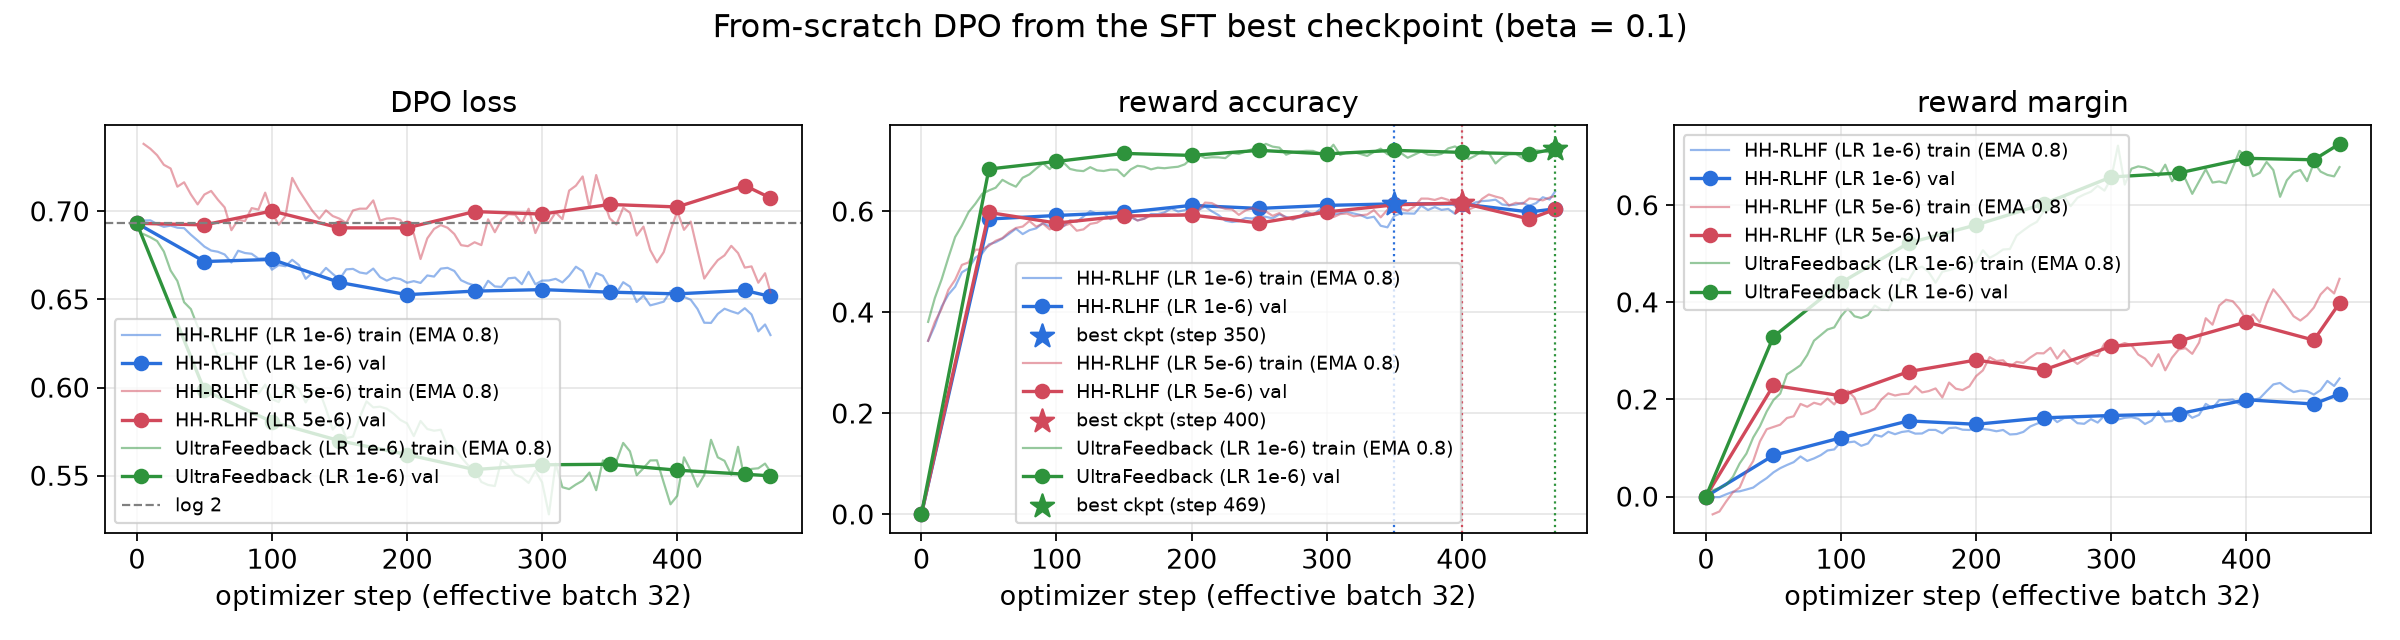
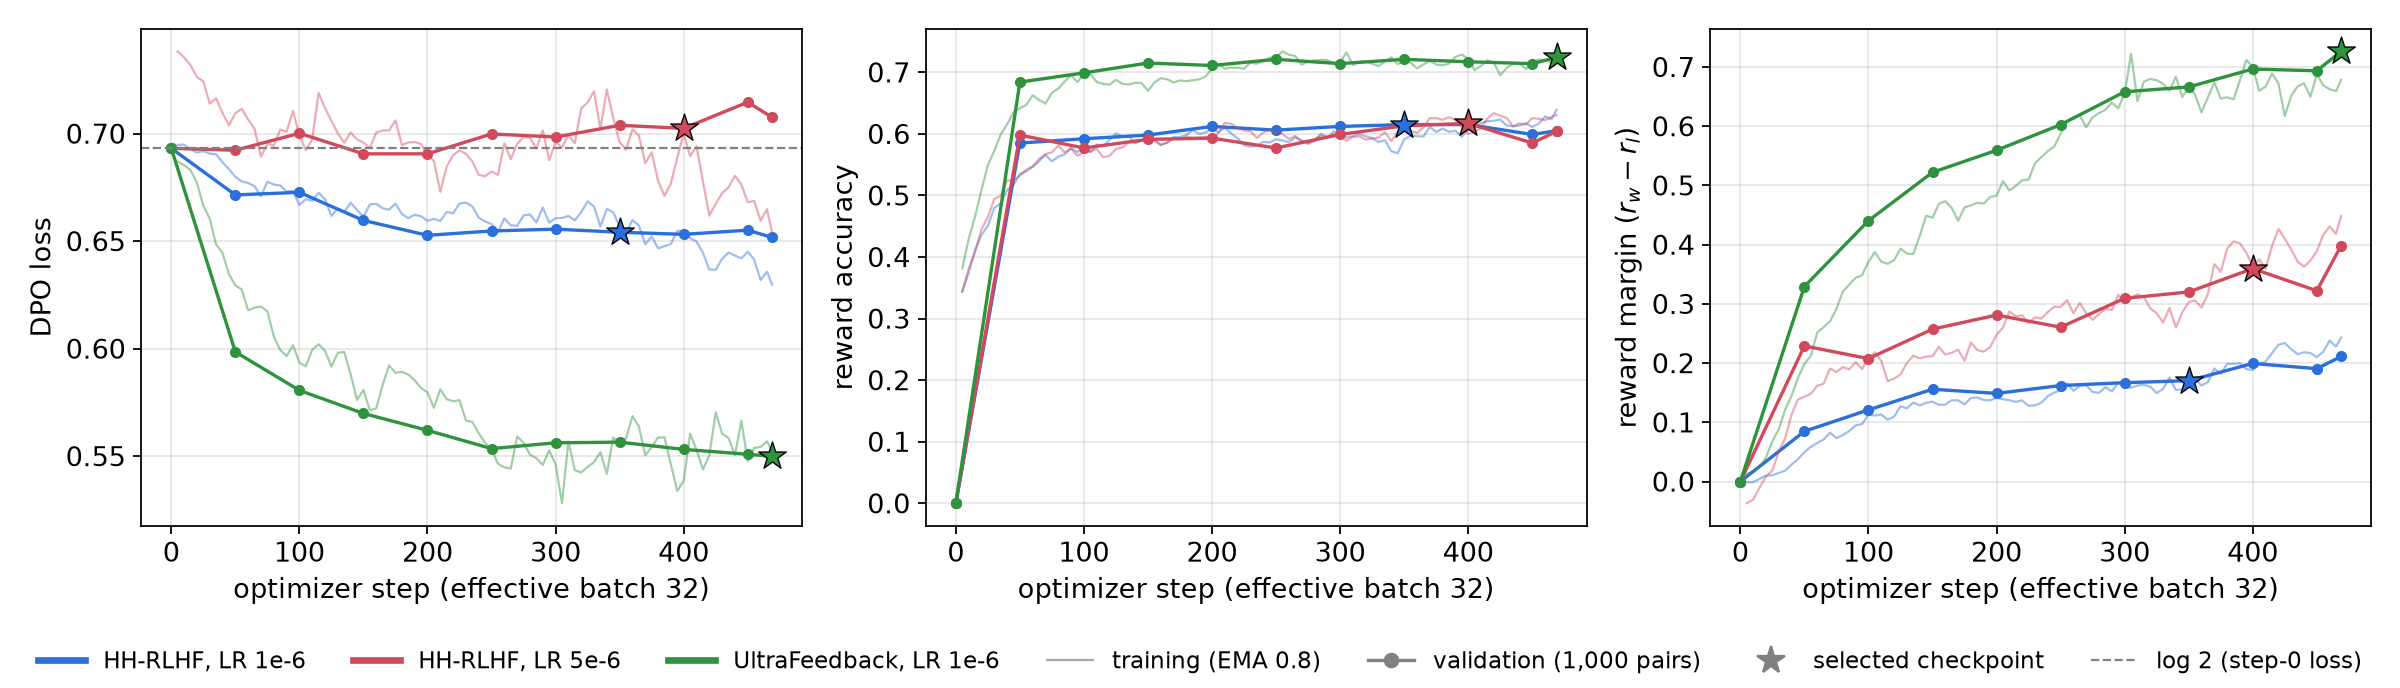
Figures: y-axis labels, shared legends, starred selected checkpoints, stated smoothing

diff --git a/scripts/plot_metrics.py b/scripts/plot_metrics.py
@@ -69,31 +69,48 @@ def plot_sft(path, out_dir, smooth):
     plt.close(fig)
 
 
+def style_handles(train_label, val_label, ckpt_label, show_log2=True, log2_label="log 2 (step-0 loss)"):
+    """Gray proxy handles explaining line styles, shared by all runs in a figure legend."""
+
+    from matplotlib.lines import Line2D
+
+    handles = [Line2D([], [], color="gray", lw=1, alpha=0.7, label=train_label),
+               Line2D([], [], color="gray", marker="o", label=val_label),
+               Line2D([], [], color="gray", marker="*", ls="none", markersize=13, label=ckpt_label)]
+    if show_log2:
+        handles.append(Line2D([], [], color="gray", ls="--", lw=1, label=log2_label))
+    return handles
+
+
 def plot_dpo(named_paths, out_dir, smooth):
-    fig, axes = plt.subplots(1, 3, figsize=(15, 4))
+    from matplotlib.lines import Line2D
+
+    fig, axes = plt.subplots(1, 3, figsize=(15, 4.3))
+    run_handles = []
     for i, (name, path) in enumerate(named_paths):
         rows = read_jsonl(path)
         c = COLORS[i % len(COLORS)]
-        for ax, tkey, vkey, label in (
-            (axes[0], "train_loss", "val_loss", "DPO loss"),
-            (axes[1], "train_acc", "val_acc", "reward accuracy"),
-            (axes[2], "train_margin", "val_margin", "reward margin"),
-        ):
+        run_handles.append(Line2D([], [], color=c, lw=3, label=name))
+        best = [r for r in rows if r.get("saved_best")]
+        for ax, tkey, vkey in ((axes[0], "train_loss", "val_loss"), (axes[1], "train_acc", "val_acc"),
+                               (axes[2], "train_margin", "val_margin")):
             x, y = series(rows, "train", tkey)
             if y:
-                ax.plot(x, ema(y, smooth), color=c, alpha=0.5, lw=1, label=f"{name} train (EMA {smooth})")
+                ax.plot(x, ema(y, smooth), color=c, alpha=0.45, lw=1)
             x, y = series(rows, "val", vkey)
-            ax.plot(x, y, "o-", color=c, label=f"{name} val")
-            if vkey == "val_acc":
-                mark_best(ax, rows, vkey, c)
-            ax.set_title(label)
-            ax.set_xlabel("optimizer step (effective batch 32)")
-            ax.grid(alpha=0.3)
-    axes[0].axhline(np.log(2), color="gray", ls="--", lw=1, label="log 2")
-    for ax in axes:
-        ax.legend(fontsize=8.5)
-    fig.suptitle("From-scratch DPO from the SFT best checkpoint (beta = 0.1)")
-    fig.tight_layout()
+            ax.plot(x, y, "o-", color=c, ms=4)
+            if best:
+                ax.scatter([best[-1]["step"]], [best[-1][vkey]], color=c, marker="*", s=170, zorder=5,
+                           edgecolors="black", linewidths=0.6)
+    axes[0].axhline(np.log(2), color="gray", ls="--", lw=1)
+    for ax, ylabel in zip(axes, ("DPO loss", "reward accuracy", "reward margin ($r_w - r_l$)")):
+        ax.set_ylabel(ylabel)
+        ax.set_xlabel("optimizer step (effective batch 32)")
+        ax.grid(alpha=0.3)
+    fig.legend(handles=run_handles + style_handles(f"training (EMA {smooth})", "validation (1,000 pairs)",
+                                                   "selected checkpoint"),
+               loc="lower center", ncol=7, fontsize=10.5, frameon=False, bbox_to_anchor=(0.5, -0.01))
+    fig.tight_layout(rect=(0, 0.08, 1, 1))
     fig.savefig(out_dir / "dpo_curves.png", dpi=160)
     plt.close(fig)
 
@@ -101,29 +118,37 @@ def plot_dpo(named_paths, out_dir, smooth):
 def plot_lora(named_paths, out_dir):
     """Overlay one or more TRL LoRA-DPO runs: train loss, val loss (log scale), val reward margin."""
 
-    fig, axes = plt.subplots(1, 3, figsize=(15, 4))
+    from matplotlib.lines import Line2D
+
+    fig, axes = plt.subplots(1, 3, figsize=(15, 4.3))
+    run_handles = []
     for i, (name, path) in enumerate(named_paths):
         rows = read_jsonl(path)
         c = COLORS[i % len(COLORS)]
+        run_handles.append(Line2D([], [], color=c, lw=3, label=name))
         tr = [r for r in rows if "loss" in r and "eval_loss" not in r and "step" in r]
         ev = [r for r in rows if "eval_loss" in r]
-        axes[0].plot([r["step"] for r in tr], [r["loss"] for r in tr], color=c, label=name)
-        axes[1].plot([r["step"] for r in ev], [r["eval_loss"] for r in ev], "o-", color=c, label=name)
+        axes[0].plot([r["step"] for r in tr], [r["loss"] for r in tr], color=c, lw=1.3)
+        axes[1].plot([r["step"] for r in ev], [r["eval_loss"] for r in ev], "o-", color=c, ms=4)
         if ev and "eval_rewards/margins" in ev[0]:
-            acc = ev[-1].get("eval_rewards/accuracies")
-            axes[2].plot([r["step"] for r in ev], [r["eval_rewards/margins"] for r in ev], "o-", color=c,
-                         label=f"{name} (final val acc {acc:.2f})" if acc is not None else name)
-    axes[0].set_title("LoRA-DPO train loss")
-    axes[1].set_title("LoRA-DPO validation loss (log scale)")
+            axes[2].plot([r["step"] for r in ev], [r["eval_rewards/margins"] for r in ev], "o-", color=c, ms=4)
+        if "v3" in name and ev:  # the submitted LoRA checkpoint is v3's final step
+            axes[1].scatter([ev[-1]["step"]], [ev[-1]["eval_loss"]], color=c, marker="*", s=170, zorder=5,
+                            edgecolors="black", linewidths=0.6)
+            axes[2].scatter([ev[-1]["step"]], [ev[-1]["eval_rewards/margins"]], color=c, marker="*", s=170,
+                            zorder=5, edgecolors="black", linewidths=0.6)
+    axes[0].axhline(np.log(2), color="gray", ls="--", lw=1)
+    axes[1].axhline(np.log(2), color="gray", ls="--", lw=1)
     axes[1].set_yscale("log")
-    axes[2].set_title("LoRA-DPO validation reward margin")
-    for ax in axes:
-        ax.axhline(np.log(2), color="gray", ls="--", lw=1) if ax is not axes[2] else None
+    for ax, ylabel in zip(axes, ("training DPO loss", "validation DPO loss (log scale)",
+                                 "validation reward margin ($r_w - r_l$)")):
+        ax.set_ylabel(ylabel)
         ax.set_xlabel("optimizer step (effective batch 16)")
         ax.grid(alpha=0.3)
-        ax.legend(fontsize=9.5)
-    fig.suptitle("TRL DPOTrainer + LoRA persona tuning (SmolLM2-360M-Instruct, 200 train / 20 val pairs, beta = 0.1)")
-    fig.tight_layout()
+    fig.legend(handles=run_handles + style_handles("training (raw)", "validation (20 pairs)",
+                                                   "selected (v3, final)", log2_label="log 2"),
+               loc="lower center", ncol=7, fontsize=10.5, frameon=False, bbox_to_anchor=(0.5, -0.01))
+    fig.tight_layout(rect=(0, 0.08, 1, 1))
     fig.savefig(out_dir / "lora_dpo_curves.png", dpi=160)
     plt.close(fig)
 

diff --git a/report/latex/report.tex b/report/latex/report.tex
@@ -185,7 +185,7 @@ Pre-clipping gradient norms are large, with medians of about 44 for HH-RLHF and 
 \begin{figure}[!htb]
 \centering
 \includegraphics[width=0.9\textwidth]{figures/lora_dpo_curves.png}
-\caption{LoRA-DPO training and validation curves for v1, v2 and v3 (SmolLM2-360M-Instruct, 200 training and 20 validation pairs, $\beta=0.1$). Validation loss is shown on a logarithmic scale.}
+\caption{LoRA-DPO training and validation curves for v1, v2 and v3 (SmolLM2-360M-Instruct, 200 training and 20 validation pairs, $\beta=0.1$). Training loss is unsmoothed, validation loss is on a log scale, and the star marks the selected checkpoint.}
 \label{fig:lora}
 \end{figure}
 
